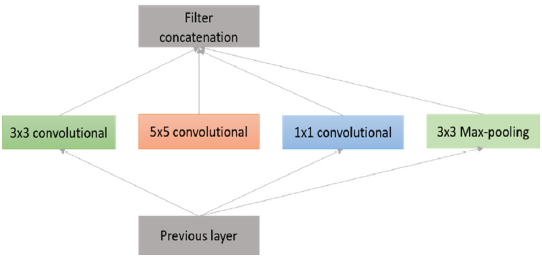
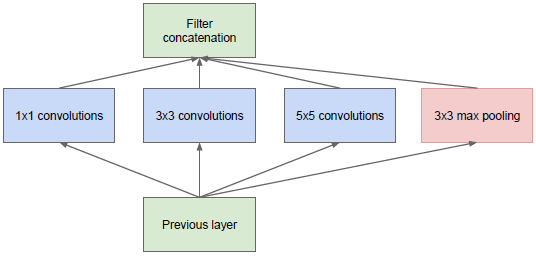
update

diff --git a/_posts/DL_survey_03.CNN/2021-02-23-CNN_architecture_Part2.md b/_posts/DL_survey_03.CNN/2021-02-23-CNN_architecture_Part2.md
@@ -3,7 +3,6 @@ title:  "Deep Learning survey_5.CNN_acthitectures_Part.2(GoogLeNet, ResNet, Dens
 search: true
 categories:
   - Deep learning
-classes: wide
 summary: This post is the fifth part (popular CNN architecture section) of summary of a survey paper.
 last_modified_at: 2021-02-23T08:06:00-05:00
 ---
@@ -22,34 +21,114 @@ In this section, several popular state-of-the-art CNN architectures will be exam
 (Bold: the most popular architectures because of their state-of-the-art performance)  
 (* Fractal Net is an alternative of ResNet model)
 
-The basic building components (convolution and pooling) are almost the same across these architectures. However, some topological differences are observed in the modern deep learning architectures.
-
+The basic building components (convolution and pooling) are almost the same across these architectures. However, some topological differences are observed in the modern deep learning architectures. In the last article, we looked over LeNet, AlexNet and VGGNet. In this article, we will look over following several models concentrating upon GoogleNet, ResNet.
 
 
 #### 3.2.6. GoogLeNet (2014)  
 
 - GoogLeNet, the winner of ILSVRC 2014, was a model proposed by Christian Szegedy of Google with the objective of reducing computation complexity compared to the traditional CNN.  
+- It is also called `Inception v1` as there are v2, v3 and v4 later on.  
 - The proposed method was to incorporate *Inception Layers* that had variable receptive fields, which were created by different kernel sizes.
 - These receptive fields created operations that captured sparse correlation patterns in the new feature map stack.  
 
+We will cover following below orders:  
+(These are from [Sik-Ho Tsang@Medium](https://medium.com/coinmonks/paper-review-of-googlenet-inception-v1-winner-of-ilsvlc-2014-image-classification-c2b3565a64e7))  
+1. The 1x1 Convolution  
+2. Inception Module  
+3. Global Average Pooling  
+4. Overall Architecture  
+
+
+###### 1. The 1x1 Convolution  
+
+The 1x1 Convolution is introduced by NIN (Network In Network). Originally, NIN uses it for introducing more non-linearity to increase the representational power of the network since authors in NIN believe data is in non-linearity form. In GooLeNet, 1x1 Convolution is used as a dimension reduction module to reduce the computation. By reducing the computation bottleneck, depth and width can be increase.  
+
+
+* 5x5 convolution without the use of 1x1 convolution:  
+
 <p>
-  <img src="/assets/images/blog/DL_survey_03.CNN/Figure6.png" style="width:60%">
-  <figcaption>Fig.6 - Inception layer: Naive version.</figcaption>
+  <img src="/assets/images/blog/DL_survey_03.CNN/Figure22.png" style="width:60%">
+  <figcaption>Fig.2 - Without the use of 1x1 convolution.</figcaption>
 </p>
 
-The initial concept of the Inception layer can be seen in Figure 6. GoogLeNet improved state-of-the-art recognition accuracy using a stack of Inception layers, seen in Figure 7.
+Number of operations = (14x14x48) x (5x5x480) = 112.9M
+
+
+* 5x5 convolution with the use of 1x1 convolution:  
+
+<p>
+  <img src="/assets/images/blog/DL_survey_03.CNN/Figure23.png" style="width:60%">
+  <figcaption>Fig.2 - With the use of 1x1 convolution.</figcaption>
+</p>
+
+Number of operations for 1x1 = (14x14x16) x (1x1x480) = 1.5M  
+Number of operations for 5x5 = (14x14x48) x (5x5x16) = 3.8M  
+Total Number of operations = 1.5M + 3.8< = 5.3M  
+Which is much smaller than 112.9M.  
+
+Thus, inception module can be built without increasing the number of operations largely compared the one without 1x1 convolution. 1x1 convolution can help to reduce model size which can also somehow help to reduce the overfitting problem.  
+
+<br>
+
+###### 2. Inception Module  
+
+The inception module (naive version, without 1x1 convolution) is as below:  
+
+<p>
+  <img src="/assets/images/blog/DL_survey_03.CNN/Figure6.png" style="width:60%">
+  <figcaption>Fig.3 - Inception layer: Naive version.</figcaption>
+</p>
+
+1x1 conv, 3x3 conv, 5x5 conv and 3x3 max pooling are done altogether for the previous input, and stack together again at output. When image's coming in, different sizes of convolutions as well as max pooling are tried. Then different kinds of features are extracted. After that, all feature maps at different paths are concatenated together as the input of the next module. However, without the 1x1 convolution, we can imagine how large the number of operation is.  
+
 
 <p>
   <img src="/assets/images/blog/DL_survey_03.CNN/Figure7.png" style="width:60%">
-  <figcaption>Fig.7 - Inception layer: Naive version.</figcaption>
+  <figcaption>Fig.4 - Inception layer: With dimensionality reduction.</figcaption>
 </p>
 
-
-- The difference between the naive inception layer and final Inception layer was the addition of 1x1 convolution kernels.  
-- This kernels allowed for dimensionality reduction before computationally expensive layers.  
-- GoogLeNet consisted of 22 layers in total, which was far greater than any network before it, but the number of network parameters was much lower than its predecessor AlexNet or VGG.  
+Thus, 1x1 convolution is inserted into the inception module for dimension reduction.  
 
 
+###### 3. Global Average Pooling  
+
+<p>
+  <img src="/assets/images/blog/DL_survey_03.CNN/Figure24.png" style="width:60%">
+  <figcaption>Fig.4 - Fully Connected Layer VS Global Average Pooling.</figcaption>
+</p>
+
+Previously, fully connected (FC) layers are used at the end of network, all inputs are connected to each output. In GoogLeNet, global average pooling is used nearly at the end of network by averaging each feature map from 7x7 to 1x1.  
+
+Number of weights (FCL) = 7x7x1024x1024 = 51.3M  
+Number of weights (GAP) = 0 (Average Pooling doesn't need weights)  
+
+And authors found that a move from FC layers to average pooling improved the top-1 accuracy by about 0.6%.  
+
+
+###### 4. Overall Architecture  
+
+<p>
+  <img src="/assets/images/blog/DL_survey_03.CNN/Figure25.png" style="width:60%">
+  <figcaption>Fig.5 - GoogLeNet overall architecture (From Left to Right).</figcaption>
+</p>
+
+There are 22 layers in total. We can see that there are numerous inception modules connected together to go deeper. There are some intermediate softmax branches at the middle. This intermediate softmax branches are used for training only. These branches are auxiliary classifiers which consist of:  
+5x5 average pooling (3 stride)  
+1x1 conv (128 filters)  
+1024 FC  
+1000 FC  
+softmax  
+
+The loss is added to the total loss, with weight 0.3. Authors claim it can be used for combating gradient vanishing problem, also providing regularization. It is not used in testing or inference time.  
+
+Below is the details about the parameters of each layer.
+
+<p>
+  <img src="/assets/images/blog/DL_survey_03.CNN/Table2.png" style="width:60%">
+  <figcaption>Table.1 - Details about parameters of each layer in GoogLeNet Network.</figcaption>
+</p>
+
+<br>
 
 
 #### 3.2.7. Residual Network (ResNet in 2015)  
@@ -57,6 +136,52 @@ The initial concept of the Inception layer can be seen in Figure 6. GoogLeNet im
 - The winner of ILSVRC 2015 was the Residual Network architecture, ResNet.  
 - Resnet was developed with the intent of designing ultra-deep networks that did not suffer from the vanishing gradient problem that predecessors had.  
 - ResNet is developed with many different numbers of layers: 34, 50, 101, 152 and even 1202. The popular ResNet50 contained 49 convolution layers and 1 fully connected layer at the end of the network.  
+
+We will cover following below orders:  
+(These are from [Sik-Ho Tsang@Medium](https://towardsdatascience.com/review-resnet-winner-of-ilsvrc-2015-image-classification-localization-detection-e39402bfa5d8))  
+1. Problem of Plain Network (Vanishing / Exploding gradient)  
+2. Skip / Shortcut Connection in Residual Network (ResNet)  
+3. ResNet Architecture  
+4. Bottleneck Design  
+
+
+###### 1. Problems of Plain Network  
+
+For conventional deep learning networks, they usually have conv layers then fully connected layers for classification task, without any skip /shortcut connection, we call them plain networks here. When the plain network is deeper (layers are increased), the problem of vanishing / exploding gradients occurs.  
+
+**Vanishing / Exploding Gradients**  
+
+During backpropagation, when partial derivative of the error function with respect to the current weight in each iteration of training, this has the effect of multiplying n of these small / large numbers to compute gradients of the front layers in an n-layer network.  
+
+When the network is deep, and multiplying n of these small numbers will become zero (vanished).  
+When the network is deep, and multiplying n of these large numbers will become too large (exploded).  
+
+We expect deeper network will have more accurate prediction. However, below shows an example, 20-layer plain network got lower training error and test error than 56-layer plain network, a degradation problem occurs due to vanishing gradient.  
+
+<p>
+  <img src="/assets/images/blog/DL_survey_03.CNN/Figure26.png" style="width:60%">
+  <figcaption>Fig.6 - Plain Networks for CIFAR-10 Dataset.</figcaption>
+</p>
+
+
+
+###### 2. Skip / Shortcut connection in residual network (ResNet)  
+
+To solve the problem of vanishing/exploding gradient, a skip / shortcut connection is added to add the input x to the output after few weight layers as below:  
+
+<p>
+  <img src="/assets/images/blog/DL_survey_03.CNN/Figure27.png" style="width:60%">
+  <figcaption>Fig.7 - A Building Block of Residual Network.</figcaption>
+</p>
+
+Hence, the output *H(x)=F(x)+x*. The weight layers actually is to learn a kind of residual mapping: *F(x)=H(X)-x*.  
+
+Even if there is vanishing gradient for the weight layers, we always still have the identity x to transfer back to earlier layers.  
+
+
+
+
+
 
 <p>
   <img src="/assets/images/blog/DL_survey_03.CNN/Figure8.png" style="width:30%">

diff --git a/_posts/DL_survey_05.RNN/2021-03-07-Part2.LSTM.md b/_posts/DL_survey_05.RNN/2021-03-07-Part2.LSTM.md
@@ -15,38 +15,100 @@ This post is the eighth part (LSTM) of summary of a survey paper
 The following two materials were also referred to supplement the contents:  
 Book - Deep Learning (written by Ian Goodfellow)  
 [A Critical Review of Recurrent Neural Networks for Sequence Learning](https://arxiv.org/pdf/1506.00019.pdf)  
+Blog
+[Understanding LSTM Networks](http://colah.github.io/posts/2015-08-Understanding-LSTMs/)  
+Medium - Shi Yan
+[Understanding LSTM and its diagrams](https://medium.com/mlreview/understanding-lstm-and-its-diagrams-37e2f46f1714)  
 The main objective of this work is to provide an overall idea on deep learning and its related fields.  
 
 
 
 ### 5.2. Long Short-Term Memory (LSTM)  
 
-**Standard Recurrent Cell**  
-
-<p>
-  <img src="/assets/images/blog/DL_survey_05.RNN/Figure5.png" style="width:50%">
-  <figcaption>Fig.1 - Schematic of the standard recurrent sigma cell.</figcaption>
-</p>
-
-- Usually RNNs are networks that consist of standard recurrent cells such as sigma cells and tanh cells.  
-- Figure1 shows a schematic of the standard recurrent sigma cell.  
-- The mathematical expressions of the standard recurrent sigma cell are written as follows:  
-
-<p>
-  <img src="/assets/images/blog/DL_survey_05.RNN/Equation4.png" style="width:30%">
-</p>
-
-- Standard recurrent cells have achieved some success in some problems.  
-- However, the recurrent networks that consist of standard recurrent cells are not capable of handling long-term dependencies: as the gap between the related inputs grows, it is difficult to learn the connection information.  
-- Researchers analyzed fundamental reasons for the long-term dependencies problem: error signals flowing backward in time tend to either blow up or vanish.  
-
-
 
 **LSTM**  
-- In order to deal with the problem of "long-term dependencies", Hochreiter and Schmidhuber proposed the LSTM cell (1997).  
-- They improved the remembering capacity of the standard recurrent cell by introducing a 'gate' into the cell.  
-- Since this pione
 
+We make decisions by reasoning and by experience. (we have the feeling that our brain have a logic unit and a memory unit). So do computers, they have the logic units, CPUs and GPUs and they also have memories. Sometimes we want to remember an input for later use. There are many examples of such a situation, such as the stock market. To make a good investment judgement, we have to at least look at the stock data from a time window.  
+
+The naive way to let neural network accept a time series data is connecting several neural networks together. Each of the neural networks handles one time step. Instead of feeding the data at each individual time step, you provide data at all time steps within a window, or a context, to the neural network.
+
+For example, suppose you want to predict christmas tree sales. This is very seasonal thing and likely to peak only once a year. So a good strategy to predict christmas tree sale is looking at the data from exactly a year back. For this kind of problems, you either need to have a big context to include ancient data points, or you have a good memory. You know what data is valuable to remember for later use and what needs to be forgotten when it is useless.  
+
+Theoritically the naively connected neural network (RNN) can work. But in practice, it suffers from two problems: vanishing gradient and exploding gradient, which make it unusable.  
+
+LSTM (Long Short Term Memory) was invented to solve this issue by explicitly introducing a memory unit, called the cell into the network. This is the diagram of a LSTM building block.
+
+<p>
+  <img src="/assets/images/blog/DL_survey_05.RNN/Figure7.png" style="width:50%">
+  <figcaption>Fig.1 - The diagram of a LSTM building block.</figcaption>
+</p>
+
+The network takes three inputs. *X<sub>t</sub>* is the input of the current time step. *h<sub>t-1</sub>* is the output from the previous LSTM unit and *C<sub>t-1</sub>* is the "memory" of the previous unit, which the author (Media-Shi Yan) think is the most important input. As for outputs, *h<sub>t</sub>* is the output of the current network. *C<sub>t</sub>* is the memory of the current unit.  
+
+Therefore, this single unit makes decision by considering the current input, previous output and previous memory. And it generate a new output and alters its memory.  
+
+The way its internal memory *C<sub>t</sub>* changes is pretty similar to piping water through a pipe. Assuming the memory is water, it flows into a pipe. Assuming the memory is water, it flows into a pipe. You want to change this memory flow along the way and this change is controlled by two valves. The first valve is called the forget valve. If you shut it, no old memory will be kept. If you fully open this valve, all old memory will pass through. The second valve is the new memory valve. New memory will come in through a T shaped joint and merge the old memory. Exactly how much new memory should come in is controlled by the second valve.  
+
+
+(1) Memory pipe
+
+<p>
+  <img src="/assets/images/blog/DL_survey_05.RNN/Figure8.png" style="width:50%">
+</p>
+
+On the LSTM diagram, the top 'pipe' is the memory pipe. The input is the old memory (a vector) The first cross X it passes through is the forget valve. It is actually an element-wise multiplication operation. So if you multiply the old memory *C<sub>t-1</sub>* with a vector that is close to 0, that means you want to forget most of the old memory. You let the old memory goes through, if your forget valve equals 1.  
+
+Then the second operation the memory flow will go through is this + operation. This operator means piece-wise summation. It resembles the T shape joint pipe. New memory and the old memory will merge by this operation. How much new memory should be added to the old memory is controlled by another valve, the X below the + sign.  
+
+After these two operations, you have the old memory *C<sub>t-1</sub>* changed to the new memory *C<sub>t</sub>*.  
+
+
+(2) Forget valve
+
+<p>
+  <img src="/assets/images/blog/DL_survey_05.RNN/Figure9.png" style="width:50%">
+</p>
+
+The forget valve is controlled by a simple one layer neural network.  
+The inputs of the neural network is:  
+1. *h<sub>t-1</sub>*: The output of the previous LSTM block.  
+2. *X<sub>t</sub>*: The input for the current LSTM block.  
+3. *C<sub>t-1</sub>*: The memory of the previous block.  
+4. *b<sub>0</sub>*: A bias vector  
+This neural network has a sigmoid function as activation, and it's output vector is forget valve, which will applied to the old memory *C<sub>t-1</sub>* by element-wise multiplication.  
+
+
+(3) Memory valve  
+
+<p>
+  <img src="/assets/images/blog/DL_survey_05.RNN/Figure10.png" style="width:50%">
+</p>
+
+Again the memory valve is a one layer simple neural network that takes the same inputs as the forget valve. This valve controls how much the new memory should influence the old memory. The new memory itself, however is generated by another neural network. It is also a one layer network, but uses tanh as the activation function. The output of this network will element-wise multiple the new memory valve, and add to the old memory to form the new memory.  
+
+**Why do we need the left sub unit (4 inputs with sigmoid function)????**
+A sigmoid layer called the 'input gate layer' decides which values we'll update.  
+A tanh layer creates a vector of new candidate values.  
+
+
+<p>
+  <img src="/assets/images/blog/DL_survey_05.RNN/Figure11.png" style="width:50%">
+</p>
+
+These two X sings are the forget valve and the new memory valve.  
+
+
+(4) Output valve  
+
+<p>
+  <img src="/assets/images/blog/DL_survey_05.RNN/Figure12.png" style="width:50%">
+</p>
+
+We need to generate the output for this LSTM unit. This step has an output valve that is controlled by:  
+1. *C<sub>t</sub>*: The new memory  
+2. *h<sub>t-1</sub>*: The previous output
+3. *X<sub>t</sub>*: A bias vector  
+This valve controls how much new memory should output to the next LSTM unit.  
 
 
 <br>

diff --git a/_posts/Image_Denoising/2021-03-17-Non local NN approaches for image denoising.md b/_posts/Image_Denoising/2021-03-17-Non local NN approaches for image denoising.md
@@ -1,0 +1,51 @@
+---
+title:  "Non local neural network approaches for image denoising"
+search: true
+categories:
+  - Deep learning
+  - Image denoising
+classes: wide
+summary: This post is a summary of image denoising review paper.
+last_modified_at: 2021-03-17T08:06:00-05:00
+---
+
+
+This post is the seventh part (RNN) of summary of a survey paper
+[A state-of-the Art survey on Deep learning theory and architecture](https://www.mdpi.com/2079-9292/8/3/292).  
+
+Super resolution is the tasking of mapping a low resolution image to a high resolution image whereas image denoising is the task of learning a clean image from a noisy input.  
+
+
+### 1. Introduction  
+
+Image denoising is one of the most standard `inverse problem` in image processing. The first to propose a non local approach to this problem called Non-Local Means (NLM). The main idea is to exploit the `self similarity` properties of natural images. It is easy to observe that patterns such as edges or textures, are repeated with light variations along the image. Such patches which may not be close to each other in the image may contain very similar information. NLM computes for each pixel the weighted average of the patches of the image, where the weights depend on the similarity of the patches. Other methods such as NL-Bayes or BM3D also exploit this property.  
+
+Those methods work very well on images with strong self similarity, but perform poorly on random micro-textures where self similarity is low.  
+
+Denoising CNNs such as DnCNN or FFDNET haver out-performed those non local methods in terms of PSNR. We still observe an `over-smooting of textures` for those methods and poor performances on images with strong self-similarity.  
+
+Among many reasons, one is the local nature of convolutions. Even if the author claim to have large receptive fields, the importance of a pixel *j* for the computation of a pixel *i* decreases significantly as *j* gets away from *i*. This is one of the major flaws of CNNs for image denoising.  
+
+There has been an emergence of denoising methods which use CNNs and non local approaches simultaneously to be able to denoise homogeneous zones, textures, and images with strong self-similarity. The paper report and explain here some of those methods which can be split in three categories.  
+1. Plug-and-play methods which are agnostic of the chosen denoising CNN architecture.  
+2. Non local inference CNNs which unroll classic non-local denoising algorithm into a CNN with block-matching methods.  
+3. The architecture including attention mechanisms, with non-local layers and kNN searches for example.  
+
+
+<br>
+
+
+### 2. Plug-and-play non local approaches  
+
+They define plug-and-play methods as denoising algorithms which can include any type of denoising methods. In that case, we can use any existing CNNs in those approaches. The `versatility` and the `ease of implementation` are the major benefits of those PNP methods.  
+
+**Block Matching CNN**
+This method can be split in two: a block matching algorithm and a denoising algorithm. The block matching algorithm selects for each pixel the k-NN patches in a defined search window, using the euclidean distance. The k-NN are not computed on the noisy image but on a pilot image, obtained thanks to already existing denoising methods (e.g., BM3D, DnCNN) Computing the block-matching on the noisy image leads to very poor results.  
+
+Once the k-NN are found, they concatenate both the noisy and the pilot patches in a 3D tensor of size (*2k, N<sub>patch</sub>, N<sub>patch</sub>*) that is further passed through a regular and trainable CNN that outputs a single patch. The final image from which the loss is computed, is obtained using a classic patch aggregation method. This method shows outperforming DnCNN but the computation time is much larger since the NN search is time consuming.  
+
+Similarly, a non local PNP method for video denoising was presented. This method can also be divided in pixel matching and CNN filtering. The difference is that the search window is now three-dimensional. Instead of stacking patches together, they stack the noisy frame t with its N nearest neighbor feature maps. Therefore the N most similar pixels to pixel (*i,t*) are stacked along the z axis at the same position *i*.  
+
+Those N+1 feature maps are then passed through a CNN. First, 4 layers of 32 1x1 convolution process the non local features maps. The output is passed through a DnCNN-like network.
+
+The interest of using multiple frames for video denoising, is that instead of using a pilot denoised image, we can just increase the patch-size when searching for the k-NNs, since videos have even more self-similarity than images, due to their temporal redundancy.  
